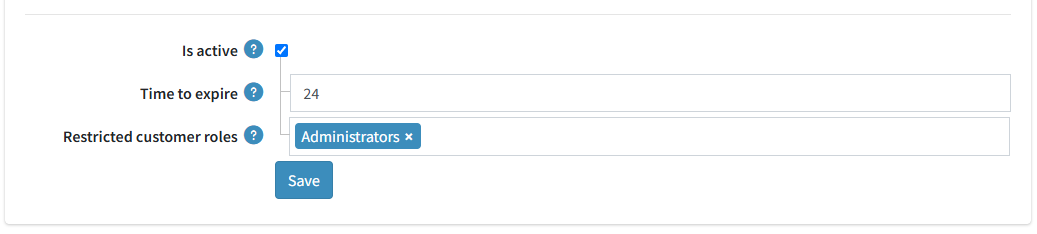
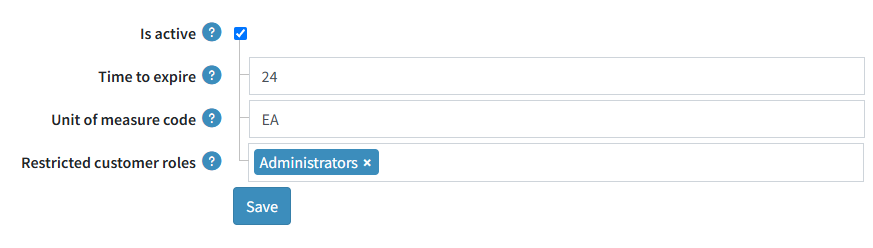
Update punchout docs

Changed region(s): [[0.0, 0.0598, 1.0, 0.9274], [0.0, 0.9573, 0.9897, 0.9872], [0.9897, 0.2393, 1.0, 0.359]]

diff --git a/en/getting-started/advanced-configuration/punchout.md b/en/getting-started/advanced-configuration/punchout.md
@@ -55,6 +55,7 @@ Define the following general settings:
 
 - **Is active** — enable or disable the plugin. The plugin is disabled by default; when it is disabled, nopCommerce responds to incoming setup requests with the *Service Unavailable* error.
 - **Time to expire** — the time in hours after which the PunchOut session will expire (24 hours by default).
+- **Unit of measure code** - the unit of measure code for PunchOut session.
 - **Restricted customer roles** — select customer roles that will not have access to the PunchOut feature. If no role is selected, all customers will have access. By default, the *Administrators* role is restricted.
 
 Click **Save** to save the changes.
@@ -68,13 +69,14 @@ In the **Identity** section, manage the senders allowed to connect to your store
 ![PunchOut](_static/punchout/configure_identity.png)
 
 - Use the search field to filter identities by the identity value.
-- The grid lists the **Identity** and **Shared secret hash** columns. Both values can be edited inline.
+- The grid lists the **Identity** and **Shared secret hash** columns. Both values can be edited inline. When you change the value in the "Shared secret hash" column, you are, in effect, entering a new secret key that will then be hashed.
 - Use the **Edit** and **Delete** buttons to manage the identities.
 - In the *Add new record* block, enter the **Identity** and **Shared secret** of the procurement system and click the **Add new record** button.
 
 > [!IMPORTANT]
 >
 > The shared secret is stored as a SHA-256 hash. Provide the identity and shared secret to your procurement system administrator, so the same credentials can be configured on the procurement system side.
+> ![PunchOut](_static/punchout/punchout_shared_secret_authentication_flow.png)
 
 ## The PunchOut session on the storefront
 
